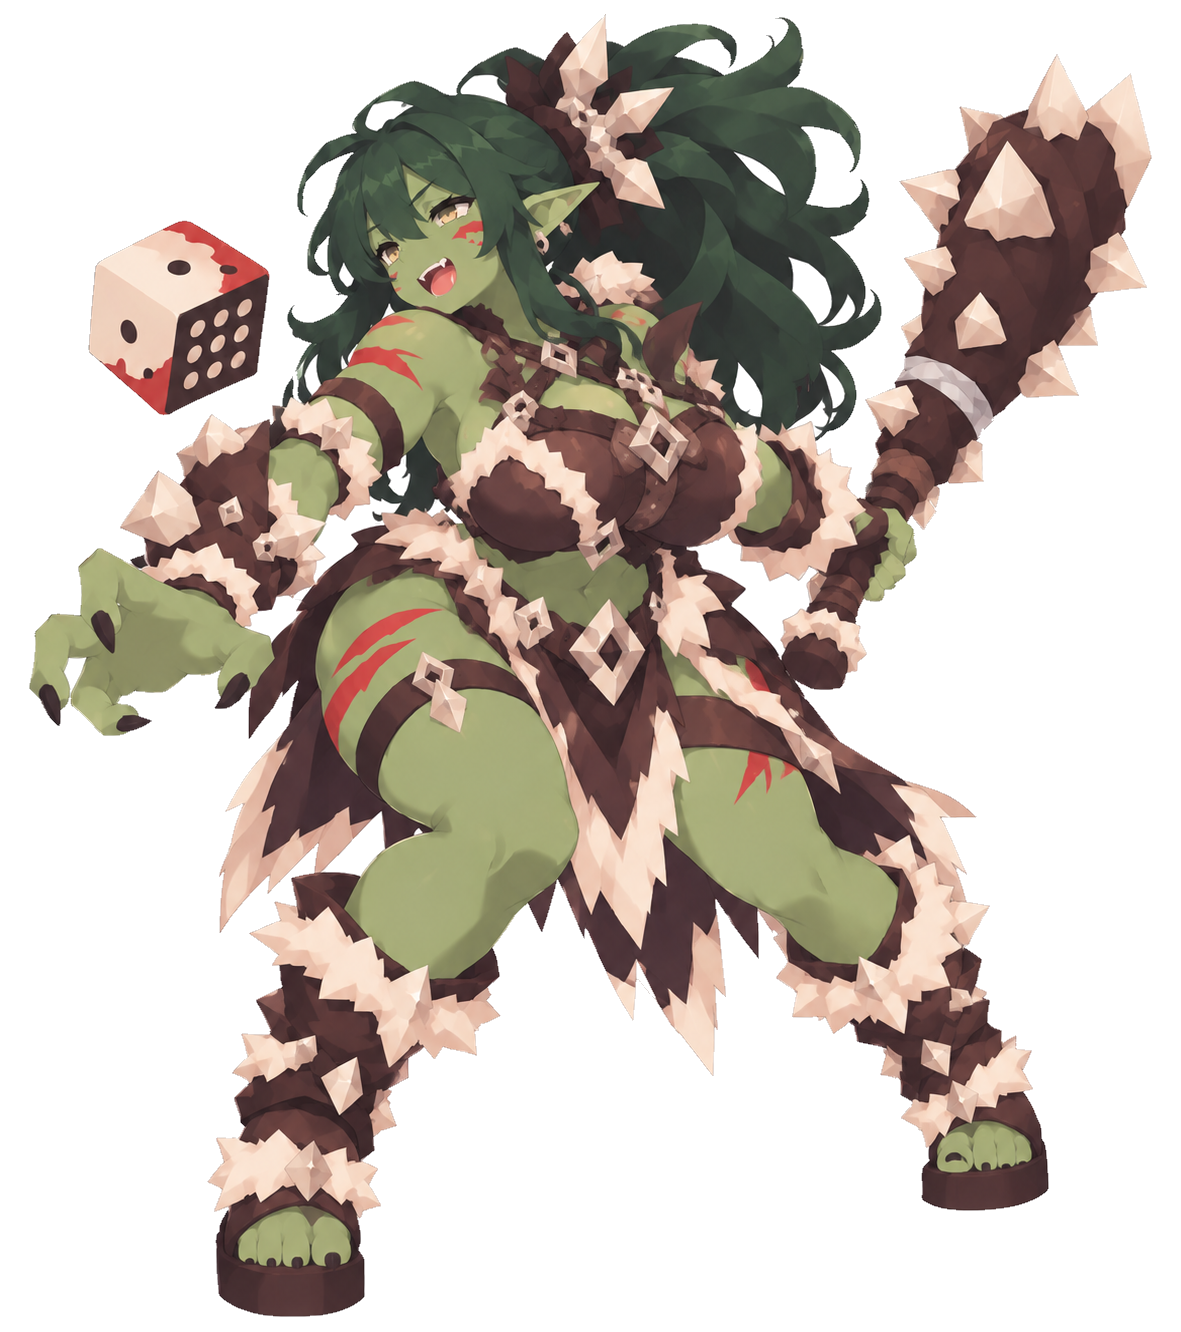
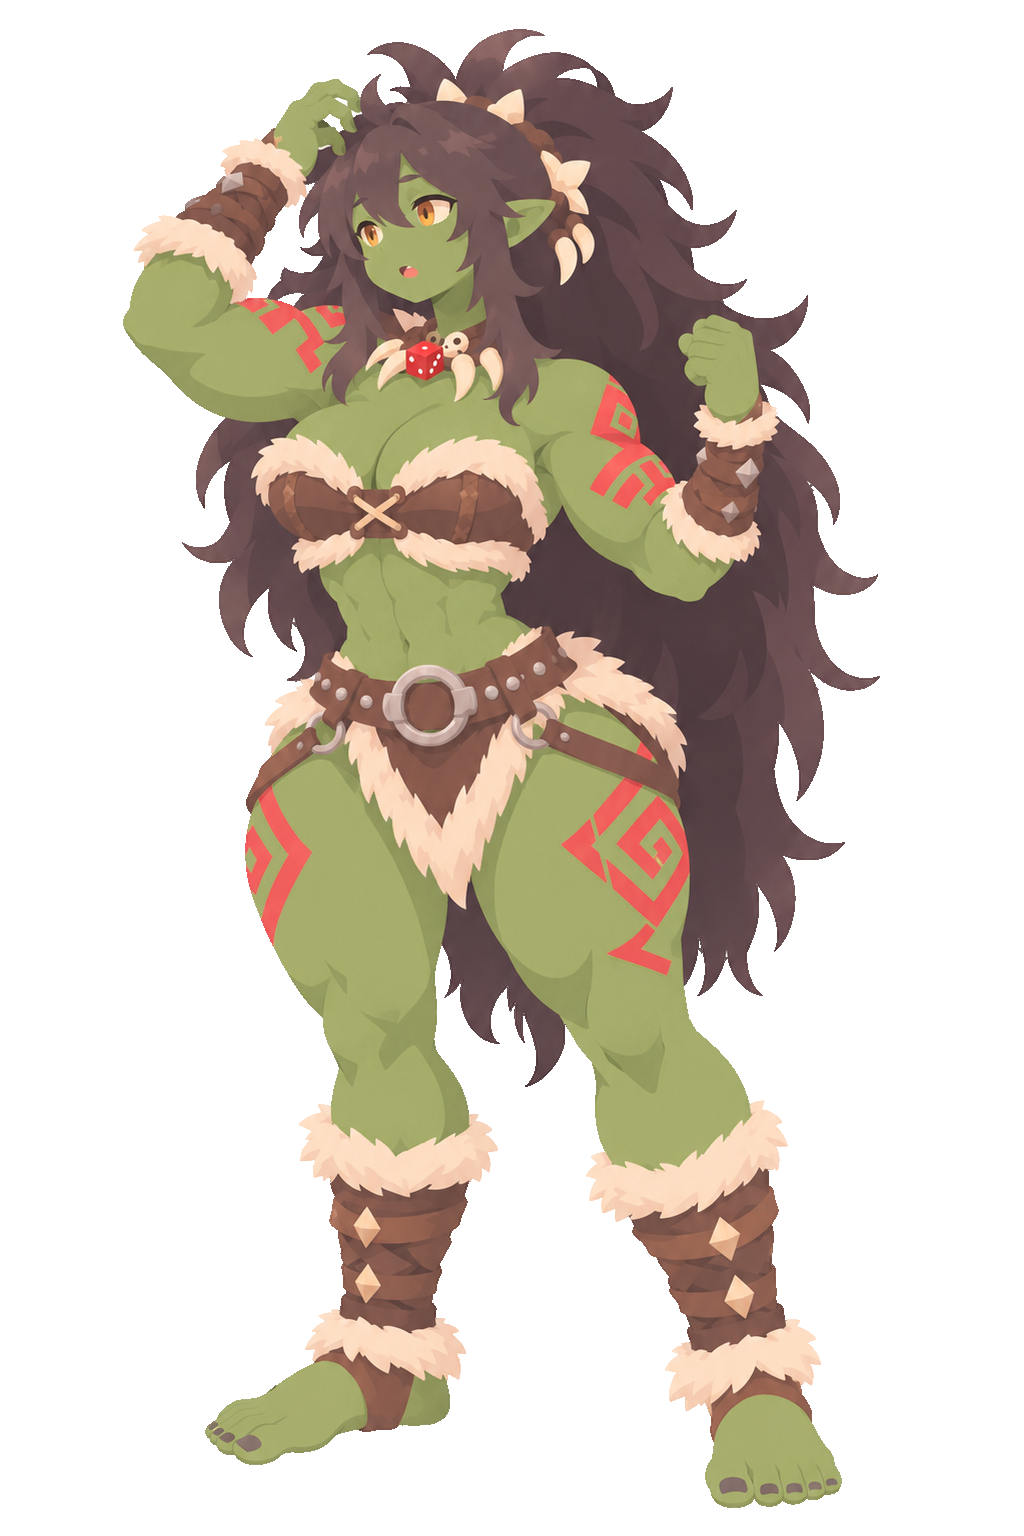
art: 오크(5a)·미믹(cs4_1 중간 확정) 모험가판 적용 — AD 구멍 검사 PASS

diff --git a/docs/art/ART_QUEUE.md b/docs/art/ART_QUEUE.md
@@ -20,7 +20,7 @@
 | 1 | 보스 디자인 | **점액 군주** — 목표 체크리스트 docs/art/OOZE_TIARA_SPEC.md. om7~om24 실패(머리 눌림·씌운 막·링 두툼·기울기 복원·크기 변화) → 티아라 제거본에 직접 기울여 합성 + 깊이별 반투명 → om25(체크리스트 통과) | 컨펌 대기 (om25) |
 | 2 | 화풍 통일 | ✅ (2026-11-12 적용) **확정 몬스터 12종 모험가판** (고블린·방패 고블린·산적·경비병·늑대·안개·그림자·구울·좀비·저주 인형·심연의 불·심연의 아이). 외곽선 제거(r52) → 사용자 확인: 늑대·안개·아이 외 OK → 늑대·안개(보석·리본 짙게)·아이 + 12종 주사위 전수 점검(그림자·고블린·방패 고블린도 수정) → r53 | 완료 |
 | 3 | 화풍 통일 | **캐릭터 표정 35장** — 피드백 체크리스트 docs/art/FACE_FEEDBACK_2026-11-12.md. 완료: 광전사(분노만 6안 중 선택 대기, 가슴 '원본부터 키우기'는 전신 수정 여부 답변 대기), 매혹사(화남 6안 중 선택 대기), 수호자, 폭발병. 진행 중: 주술사(기본·웃음 OK, 화남·슬픔·고통 이펙트 제거 중). 남음: 곡예사(머리 위 표정 장식·기쁨 눈·고통), 해적(전신부터 피부 톤). 추가 요청: 7명 분노 표정 감성 맞추기(방향 답변 대기) | 진행 중 (주술사) |
-| 4 | 수정 중 몬스터 | 각 수정본 → 피드백 확인 → 모험가판 화풍까지 한 번에: ① 아머 고블린(rs14f: rs14d가 이미 모험가판, 귀걸이 주사위만 수정 — AD PASS, 컨펌 대기) ② 오크(cs4_orc_1 모험가 색감 → 2026-11-16 사용자 "너무 누래져서, 이전 처럼 초록 느낌이 나게끔 해줘" → cs4_orc_2: 피부 색조 49°→약 65°, 채도 0.42→0.33~0.35, 확정 고블린과 같은 녹색 계열) ③ ✅ 광견(cs4_mad_dog_3 — 노출↑·모험가판, 사용자 "광견 ok." → 2026-11-17 적용) ④ 독거미 ⑤ 산양 ⑥ 암흑 늑대(dw2) ⑦ 심연의 사제(손가락) ⑧ 미믹 | 진행 중 (광견) |
+| 4 | 수정 중 몬스터 | 각 수정본 → 피드백 확인 → 모험가판 화풍까지 한 번에: ① 아머 고블린(rs14f: rs14d가 이미 모험가판, 귀걸이 주사위만 수정 — AD PASS, 컨펌 대기) ② ✅ 오크(초록 복원 → 짙게 3단계 중 사용자 "5a" 컨펌 → 2026-11-18 적용, 1024×1536) ③ ✅ 광견(cs4_mad_dog_3 — 노출↑·모험가판, 사용자 "광견 ok." → 2026-11-17 적용) ④ 독거미 ⑤ 산양 ⑥ 암흑 늑대(dw2) ⑦ 심연의 사제(손가락) ⑧ 미믹(cs4_mimic_1 중간 확정 2026-11-18 적용, 가슴 키운 개선본 검수 중) | 진행 중 (광견) |
 | 5 | 보스 마무리 | ① 공허의 눈(b25 / 단순화 vs1 선택) ② 영계의 지배자(발) ③ 광란의 마수 → 각 모험가판 → 보스 6종 일괄 나열 컨펌 | 대기 |
 | 6 | 미컨펌 디자인 | **디자인부터 다시** — 하나씩 시안 → 컨펌 → 다음: ① 슬라임 ② 독 슬라임 ③ 유령(2026-11-11 사용자: 컨펌한 적 없음) ④ 고블린 족장 ⑤ 젤라틴 큐브 ⑥ 망령 ⑦ 오크 투사 ⑧ 리치 견습생 ⑨ 다크 나이트(정예, 일반판과 공유) | 대기 |
 | 7 | 후속 | 몬스터 표정 세트 → 같은 종족 피부 톤 맞추기 → 스킬 아이콘 61종 → 이벤트 일러스트 16종 | 대기 |
